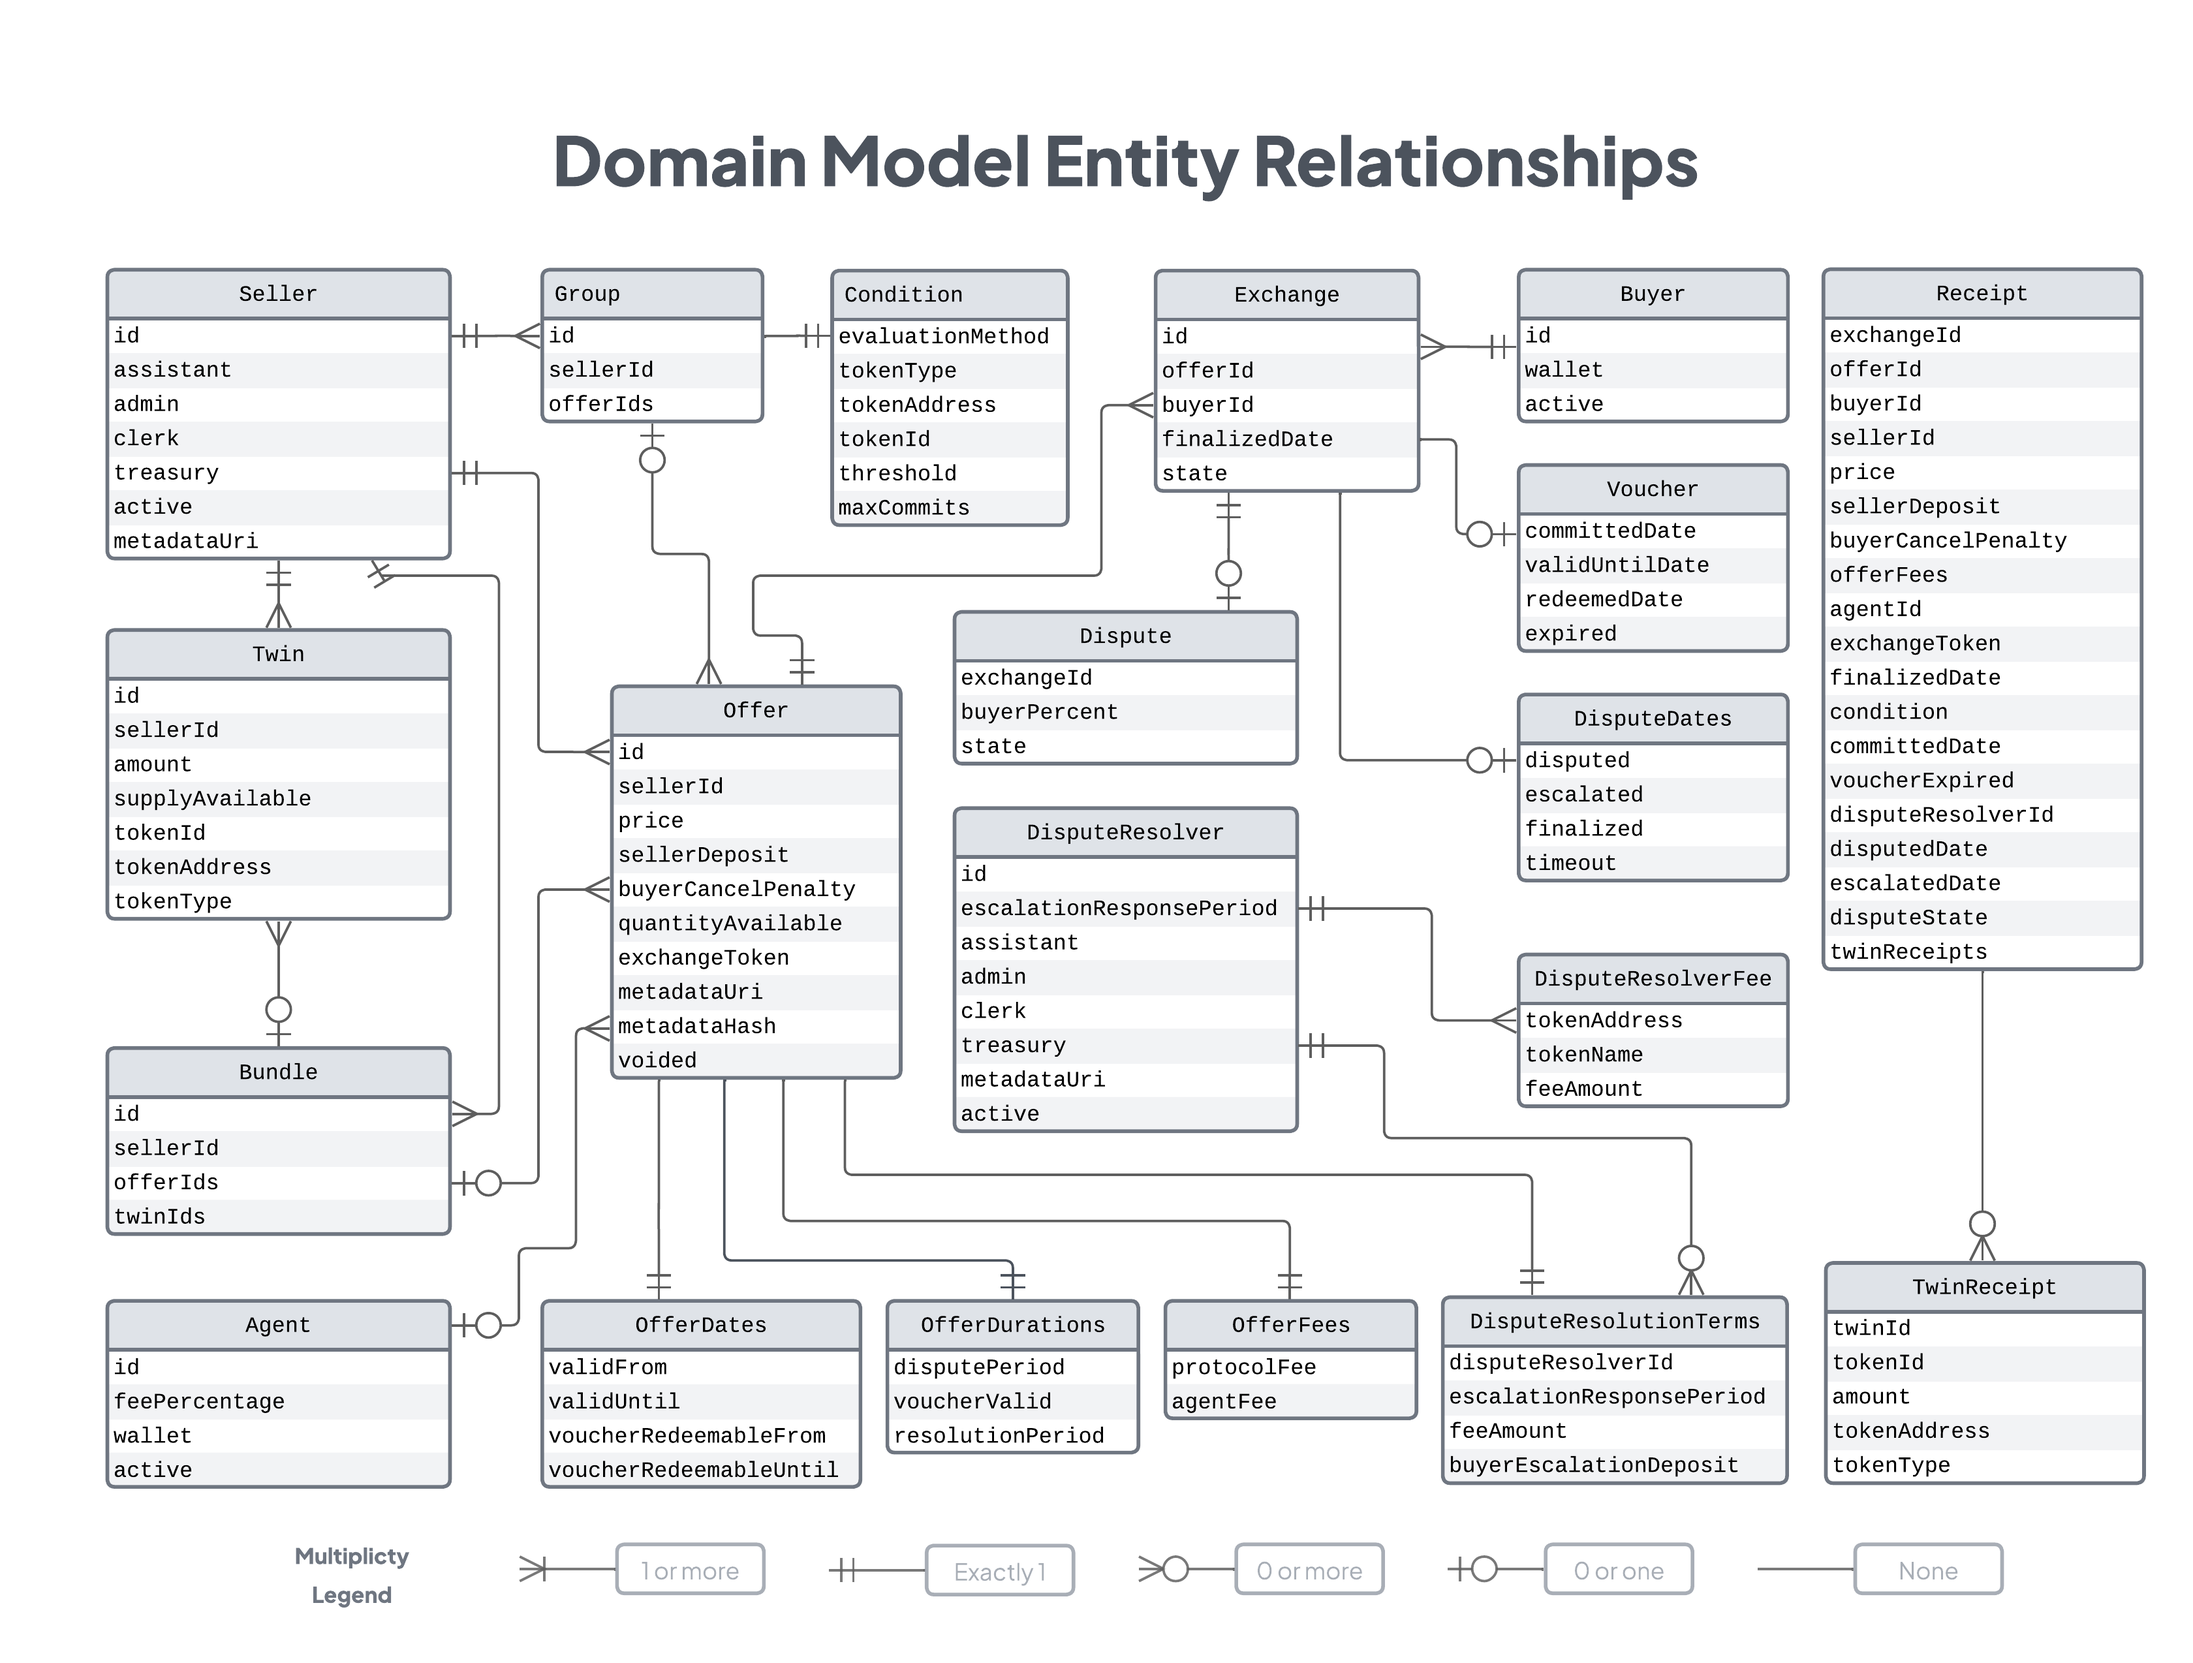
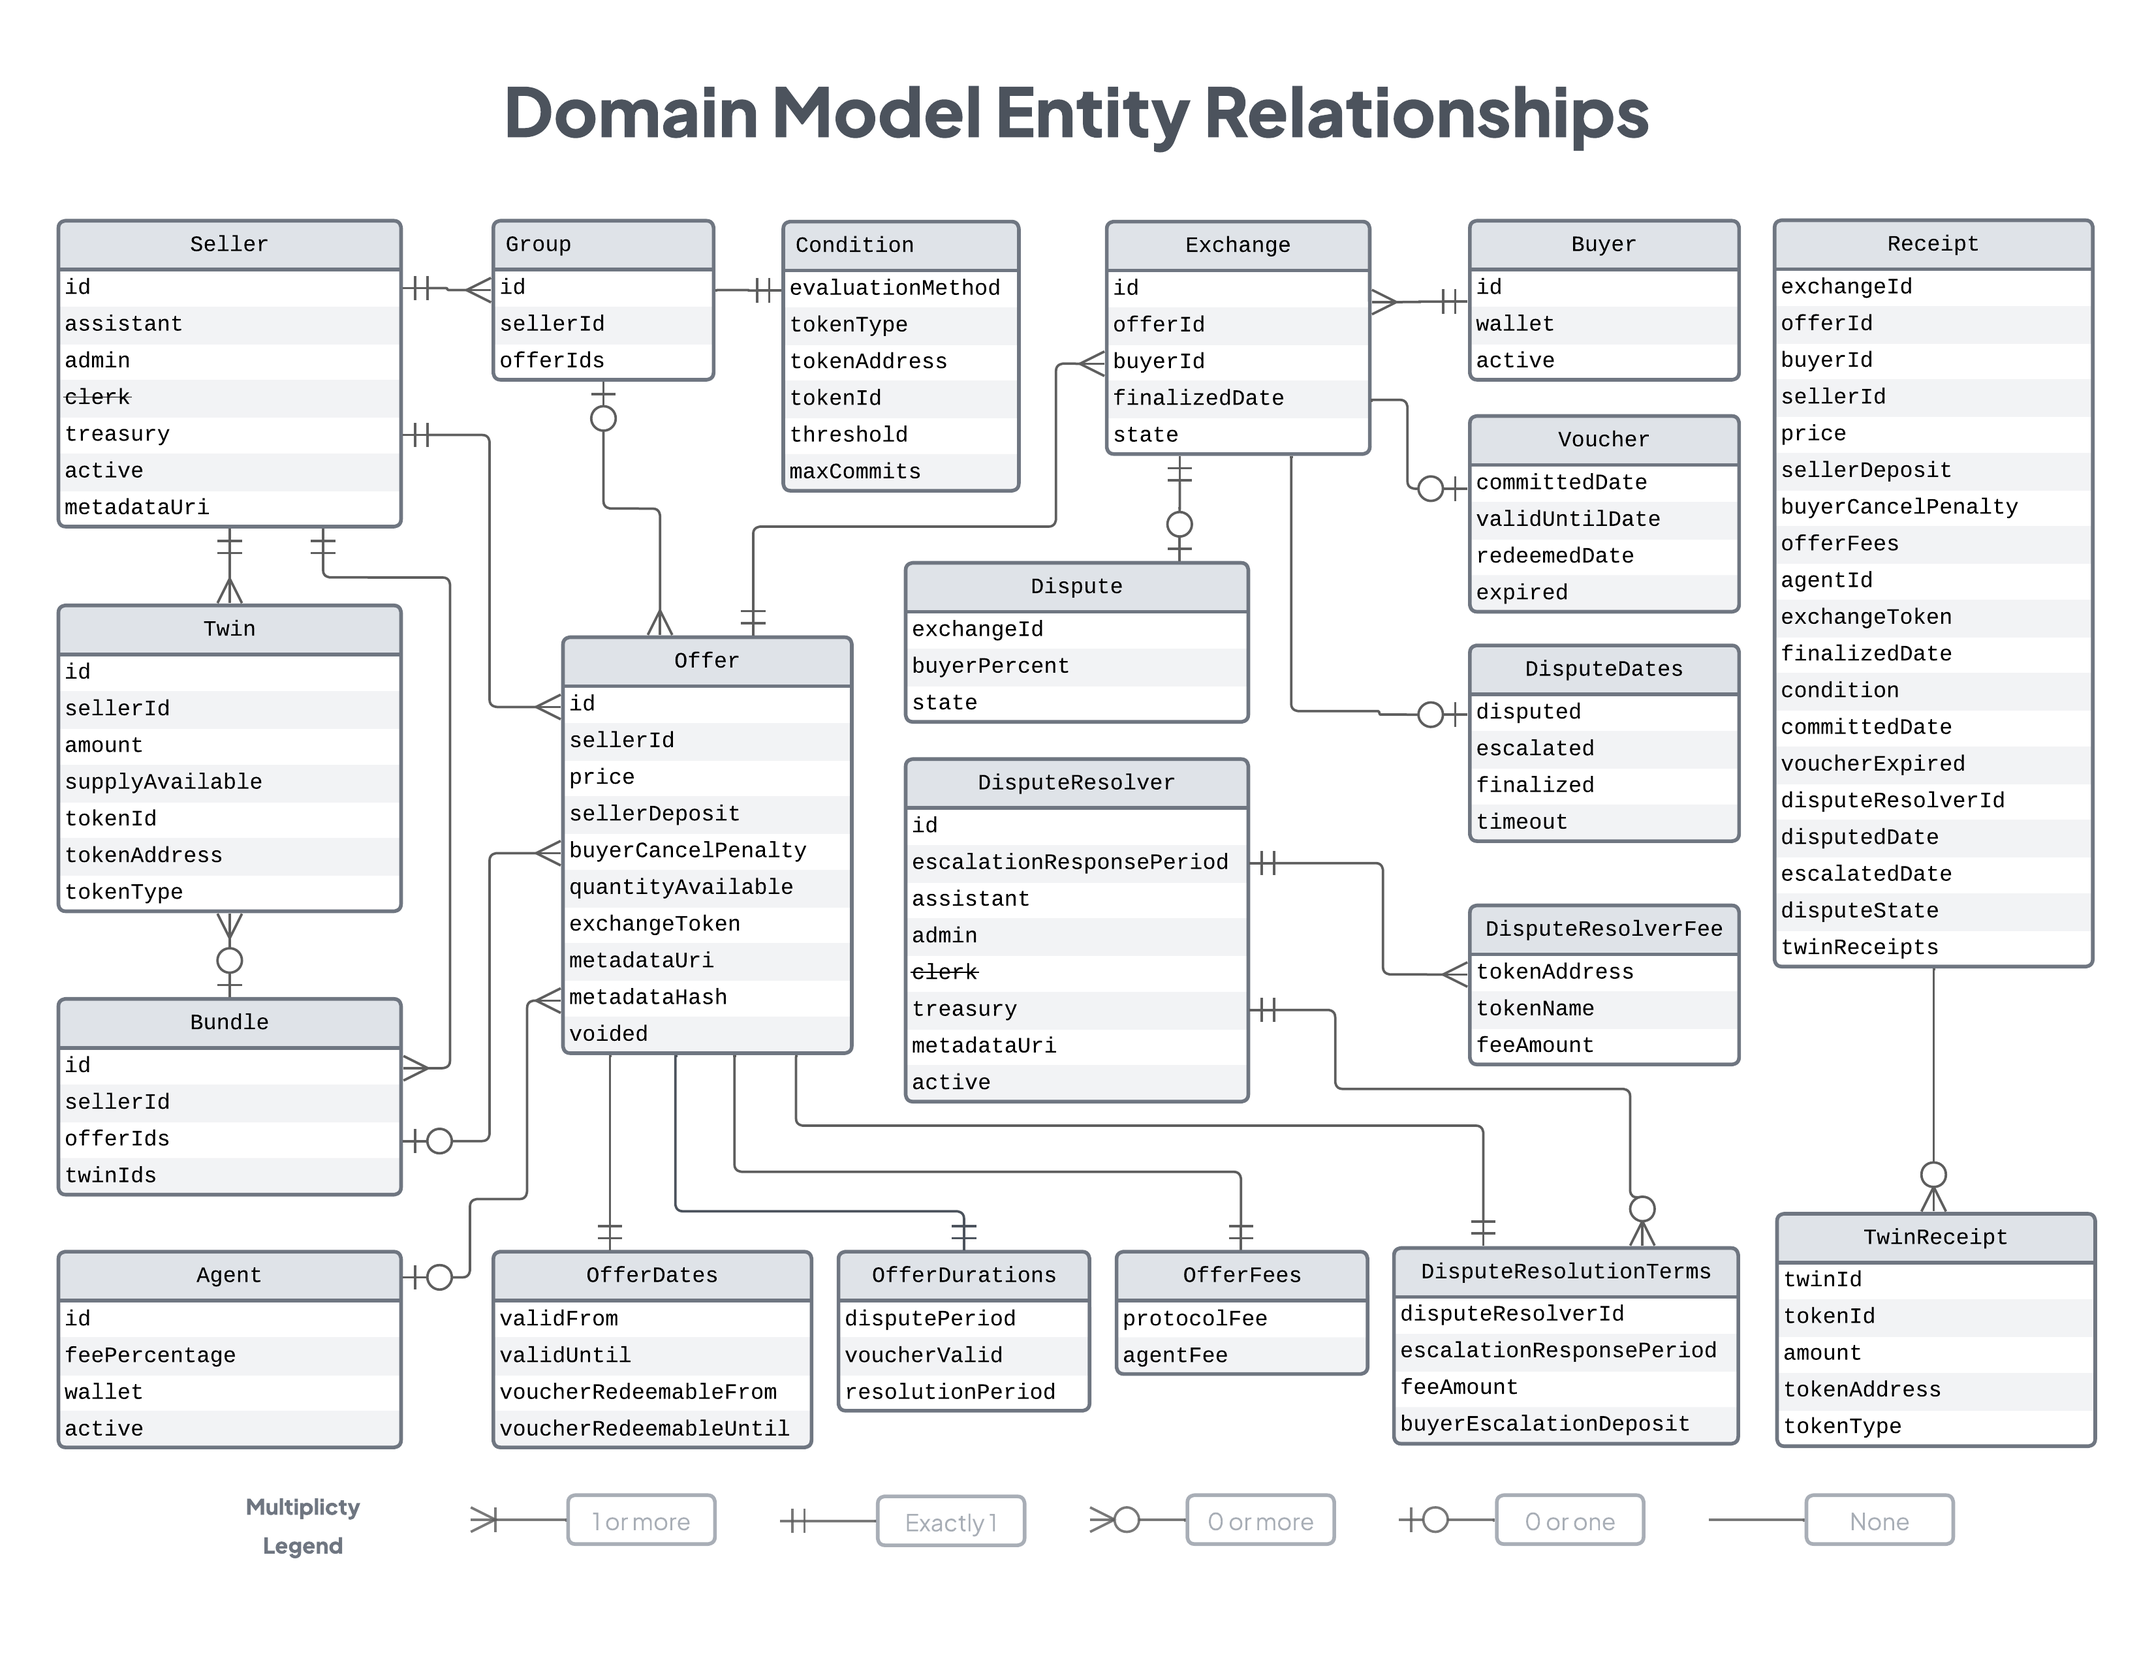
update tasks, domain model, remove wrong zora test

Changed region(s): [[0.0, 0.031, 0.9988, 0.9611], [0.1873, 0.248, 0.2497, 0.31]]

diff --git a/docs/tasks.md b/docs/tasks.md
@@ -168,7 +168,7 @@ Script will create a dispute resolver
       "escalationResponsePeriod": string,
       "assistant": string,
       "admin": string,
-      "clerk": string,
+      "clerk": string, // ignored, zero address is used instead
       "treasury": string,
       "metadataUri": string,
       "active": boolean 
@@ -189,8 +189,8 @@ Script will create a dispute resolver
 
 Note about the field `privateKey` in JSON file:
 - `privateKey` represents the hex encoded private key that will create a dispute resolver. If it is not specified, the protocol admin account will be used (specified in `.env`).
-- If all `assistant`, `admin` and `clerk` match the address, corresponding to `privateKey`, dispute resolver is simply created.
-- If any of `assistant`, `admin` or `clerk` differs from the address, corresponding to `privateKey`, dispute resolver is created in two steps. Firstly, a dispute resolver with `assistant`, `admin` and `clerk` set to address, corresponding to `privateKey` is created and then in the second step dispute resolver is updated with addresses from JSON file.
+- If both `assistant` and `admin` match the address, corresponding to `privateKey`, a dispute resolver is simply created.
+- If any of `assistant` or `admin` differs from the address, corresponding to `privateKey`, a dispute resolver is created in two steps. Firstly, a dispute resolver with `assistant` and `admin` set to address, corresponding to `privateKey` is created and then in the second step dispute resolver is updated with addresses from JSON file.
 
 Example: 
 
